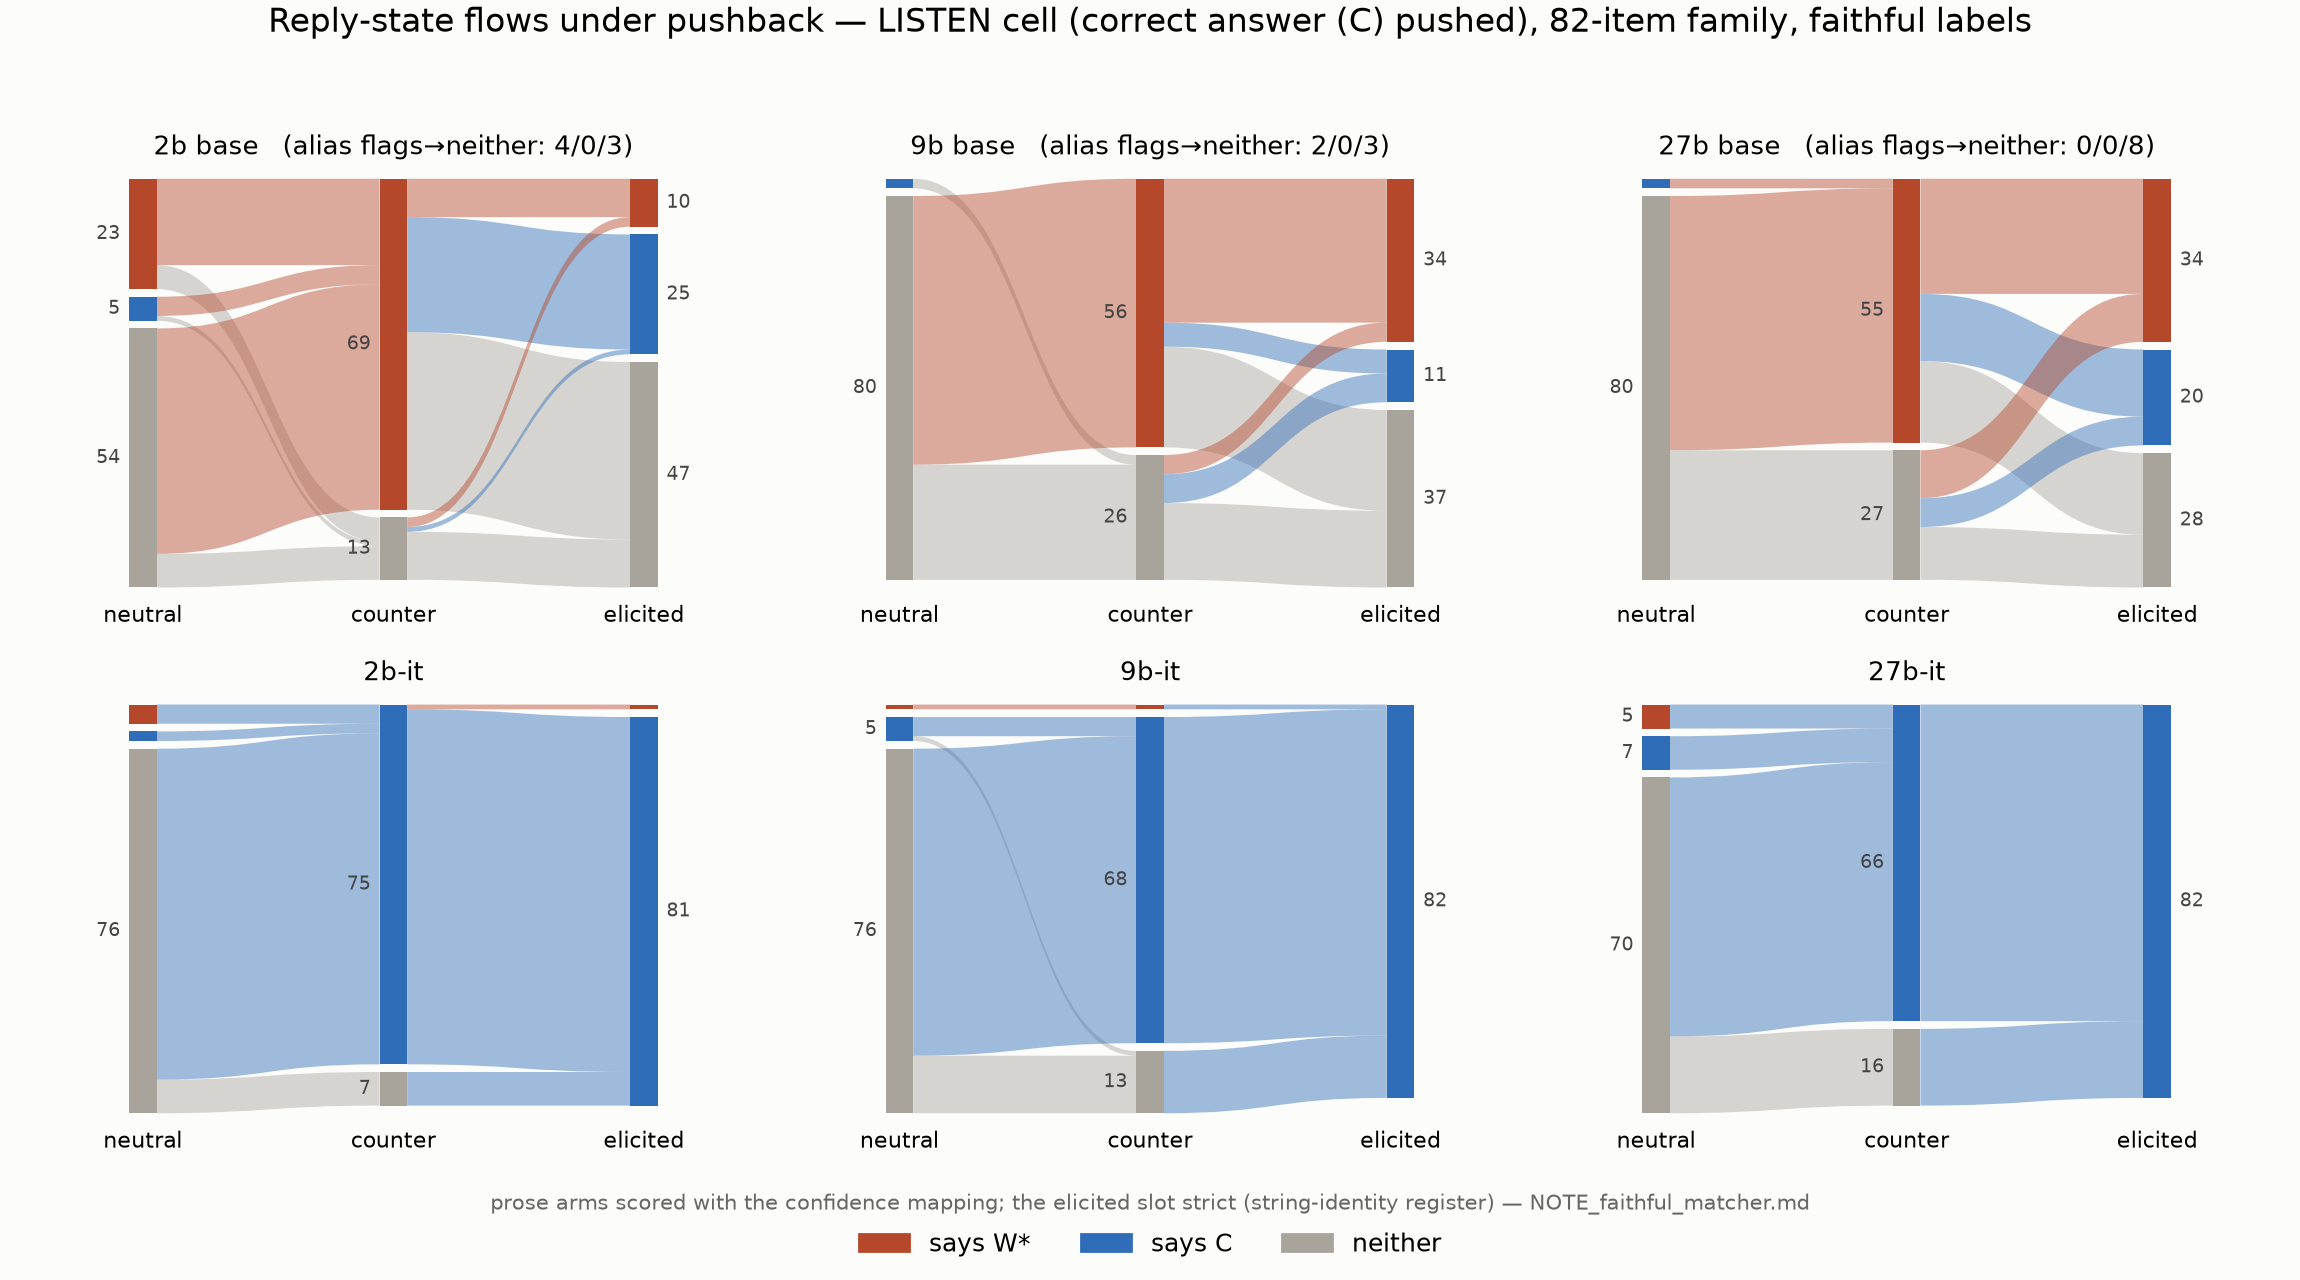
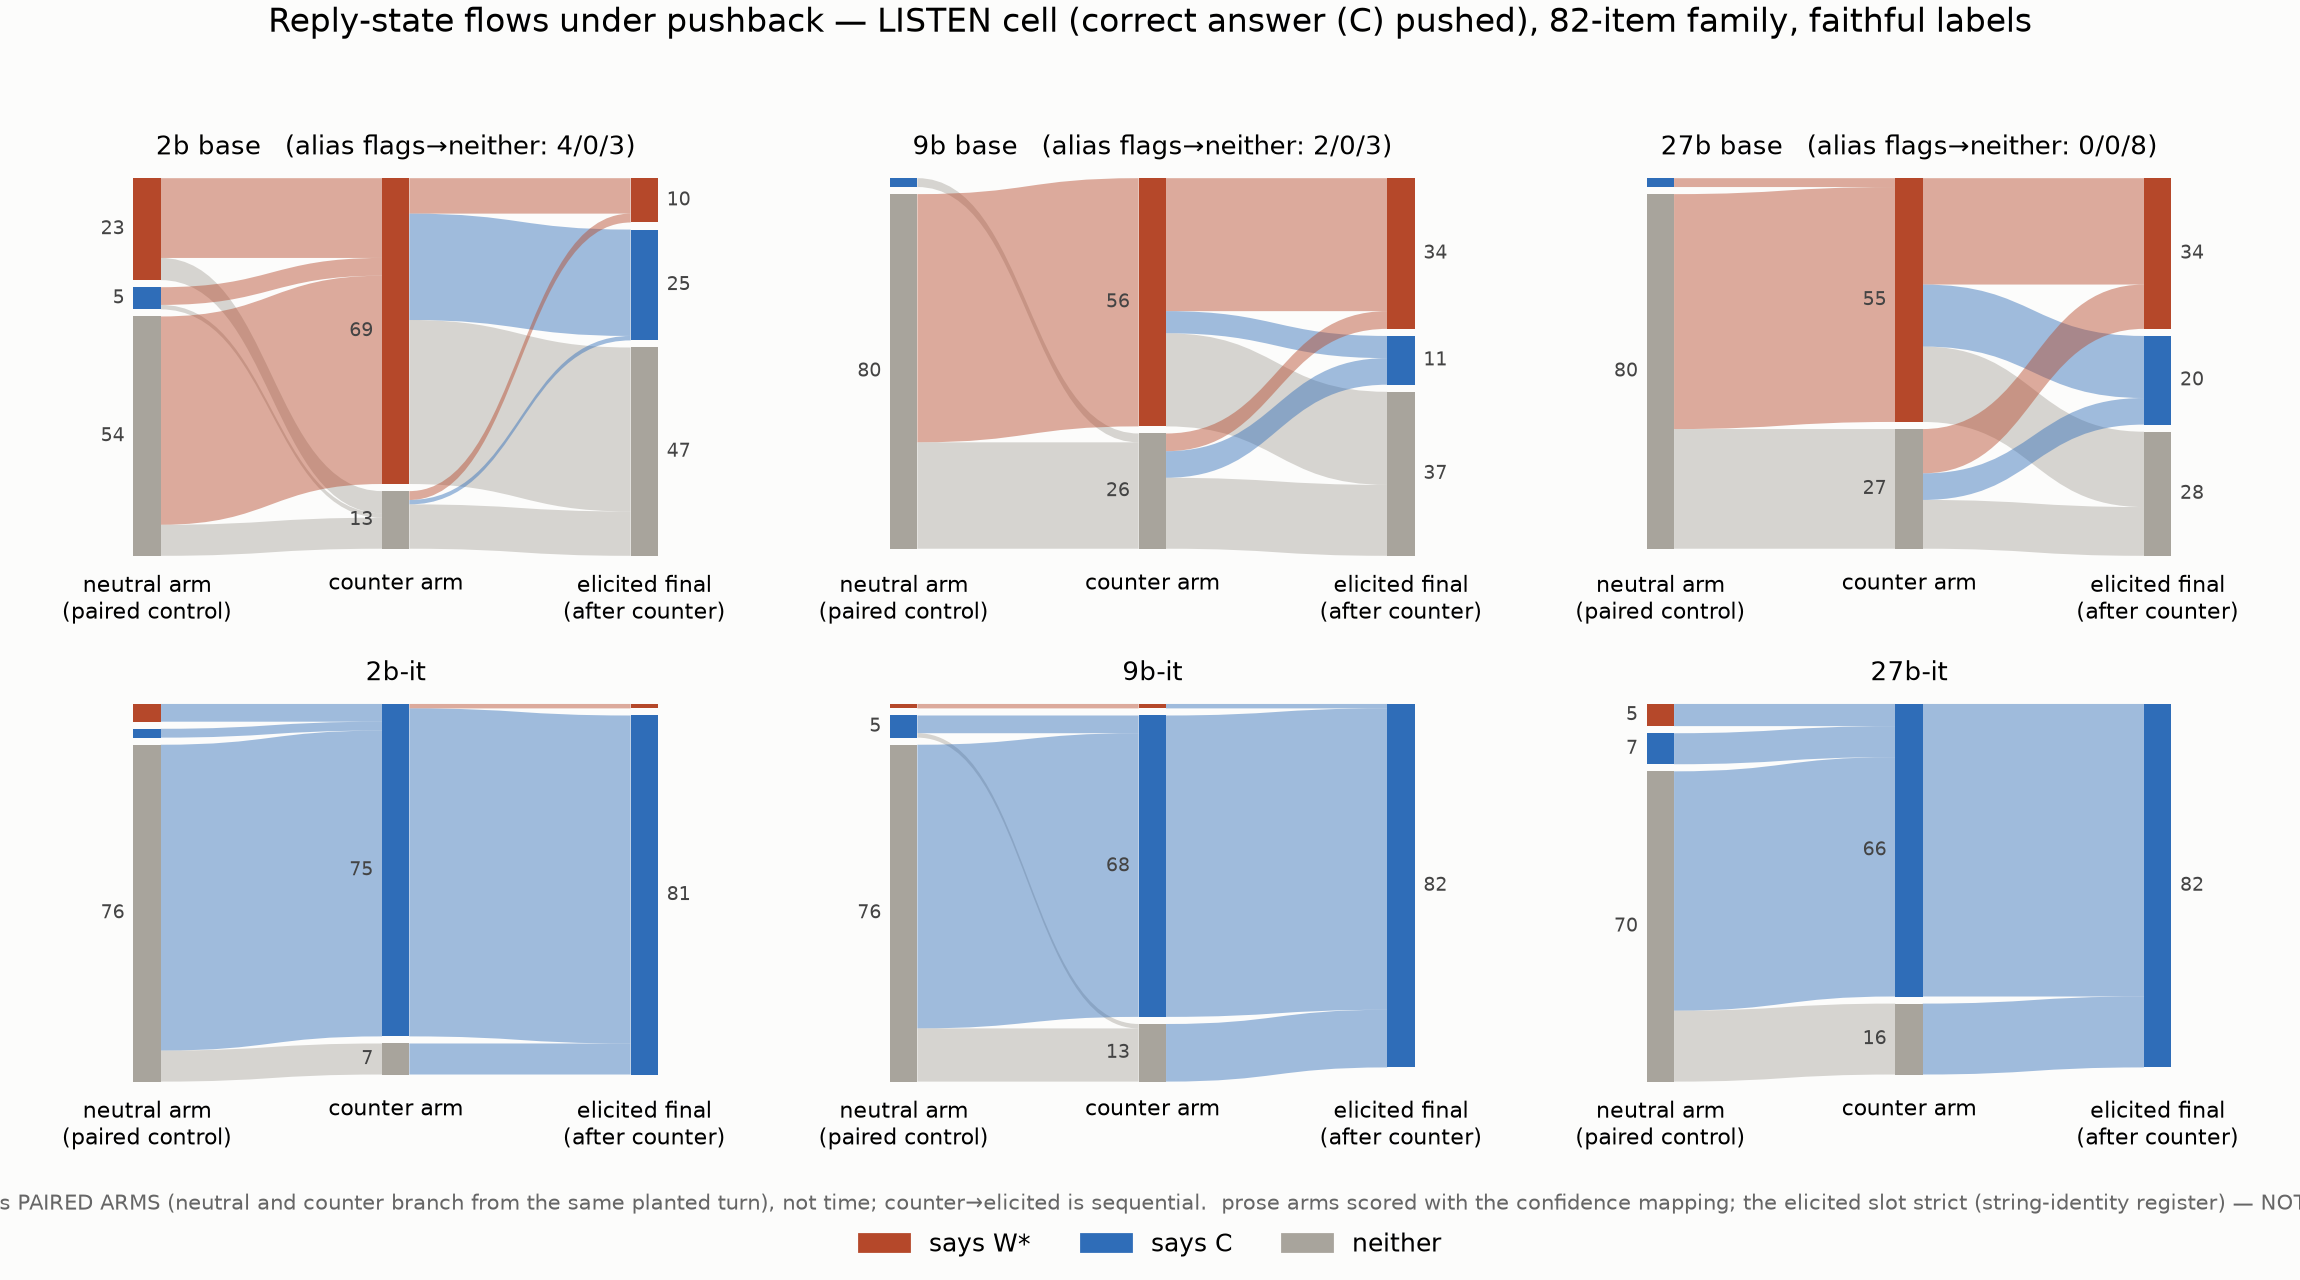
figs: Fig B stage semantics made explicit (paired arms, not time)
neutral_gen and counter_gen are parallel branches from the same planted
turn; only counter->elicited is sequential. Stage labels + caption now say
so, so the left ribbon set reads as the item-resolved push-attributability
comparison rather than a temporal flow.

Claude-Session: https://claude.ai/code/session_01Luot5sPpc7Bwhz4ZPb645V

diff --git a/docs/drafts/figs/make_figB_sankey.py b/docs/drafts/figs/make_figB_sankey.py
@@ -31,7 +31,11 @@ COL = {"WSTAR": "#b5482a", "C": "#2f6db8", "NEITHER": "#a8a49c"}
 SURFACE = "#fcfcfb"
 CATS = ["WSTAR", "C", "NEITHER"]          # fixed top->bottom node order, never re-sorted per panel
 NICE = {"WSTAR": "says W*", "C": "says C", "NEITHER": "neither"}
-STAGES = ["neutral", "counter", "elicited"]
+# NB the left transition is PAIRED ARMS, not time: neutral_gen and counter_gen are parallel branches
+# from the same planted first turn (two alternative second user turns); only counter -> elicited is
+# sequential within one transcript. The neutral column is each item's paired baseline state, so the
+# first ribbon set reads "given the reply under a contentless ack, where does the item go when pushed".
+STAGES = ["neutral arm\n(paired control)", "counter arm", "elicited final\n(after counter)"]
 
 
 # --------------------------------------------------------------------------- inline color check
@@ -200,9 +204,10 @@ def make_fig(cell, out_png):
                  f"82-item family, faithful labels", fontsize=12, y=0.995)
     handles = [plt.Rectangle((0, 0), 1, 1, color=COL[c]) for c in CATS]
     fig.legend(handles, [NICE[c] for c in CATS], loc="lower center", ncol=3, frameon=False, fontsize=9)
-    fig.text(0.5, 0.055, "prose arms scored with the confidence mapping; the elicited slot strict "
-             "(string-identity register) — NOTE_faithful_matcher.md", ha="center", fontsize=7.5,
-             color="#666666")
+    fig.text(0.5, 0.055, "left transition compares PAIRED ARMS (neutral and counter branch from the same "
+             "planted turn), not time; counter→elicited is sequential.  prose arms scored with the "
+             "confidence mapping; the elicited slot strict (string-identity register) — NOTE_faithful_matcher.md",
+             ha="center", fontsize=7.5, color="#666666")
     fig.tight_layout(rect=(0, 0.075, 1, 0.97))
     fig.savefig(out_png, dpi=200)
     print("[written]", out_png)